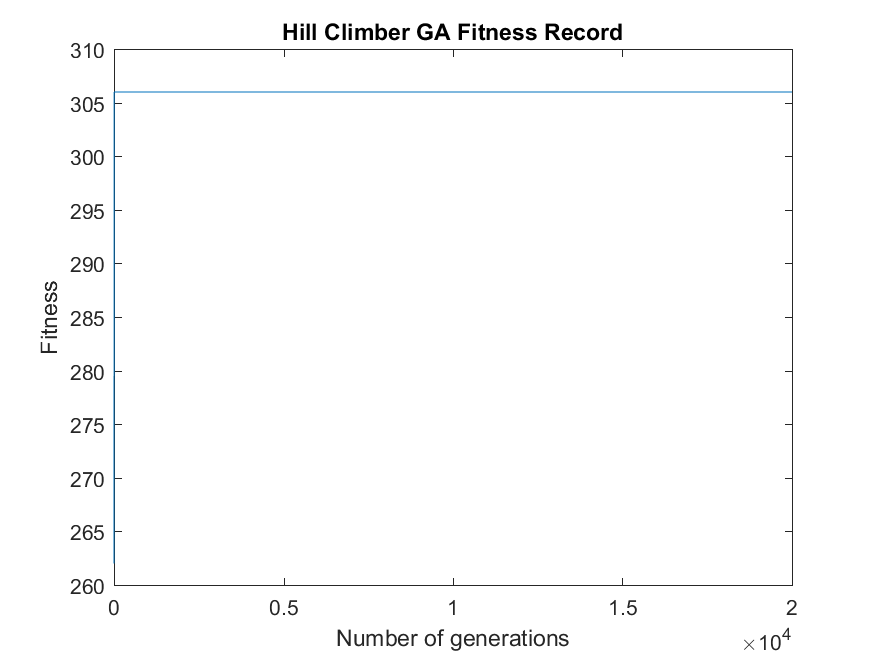
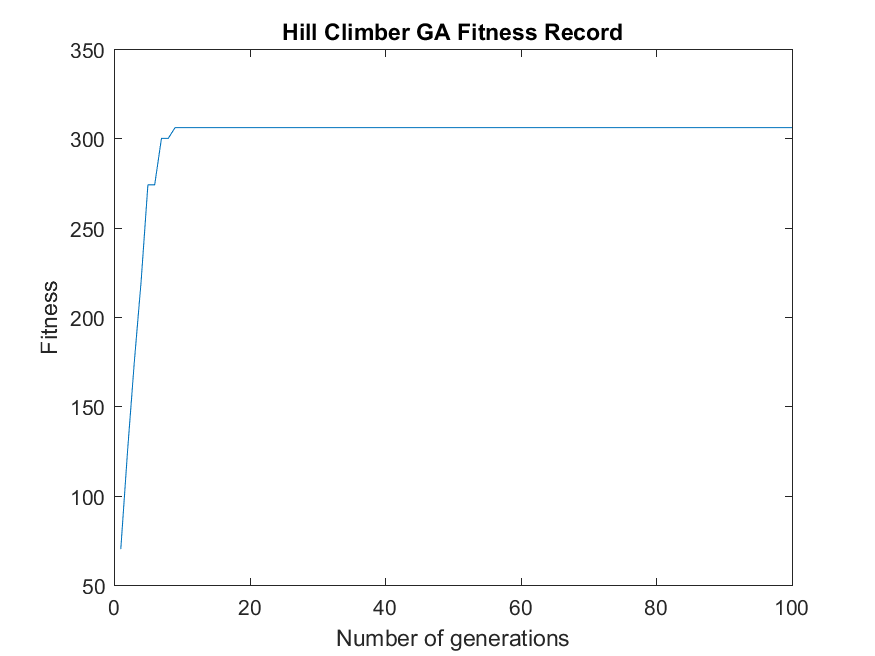
Update hill climber fitness image, and Genetic Algorithms code

diff --git a/AIAB/GeneticAlgorithmsReport/GeneticAlgorithms.m b/AIAB/GeneticAlgorithmsReport/GeneticAlgorithms.m
@@ -15,9 +15,9 @@ V = [  6     8     5    10     8     6     7    14    11     9    14     6    12
 
 %%% Hillclimber GA
 pop = 100; % Population size
-gen = 20000; % No. Generations
+gen = 100; % No. Generations
 generate = 0; % 1, to randomly generate population genomes, 0 to set to nothing
-mut = 10;
+mut = 1;
 
 fitRec = hillClimber(B,V,pop,gen,MAX_VOLUME,generate,mut);
 
@@ -29,7 +29,7 @@ title('Hill Climber GA Fitness Record');
 ylabel('Fitness');
 xlabel('Number of generations');
 hold off;
-print -dpng 'HillClimberFitness.png'
+print -dpng 'HillClimberFitness.png'; % Usually returns a max of 306
 
 
 
@@ -41,6 +41,7 @@ mut = 1; % Mutation proportion 1 would be 1/length(B)
 local = 5;
 cross = 0.5;
 [winner,winnerInd,fitRecMicrobial,popGens] = microbial(B,V,pop,gen,MAX_VOLUME,generate,mut,local,cross);
+% Retruns a max of 818
 
 x = linspace(1,gen,gen);
 figure(2);plot(x,fitRecMicrobial');
@@ -50,7 +51,7 @@ ylabel('Fitness');
 xlabel('Number of generations');
 hold off;
 MICROBIAL_MAX = max(fitRecMicrobial)
-print -dpng 'MicrobialFitness.png'
+print -dpng 'MicrobialFitness.png';
 
 
 % Save solutions for top 4 in population
